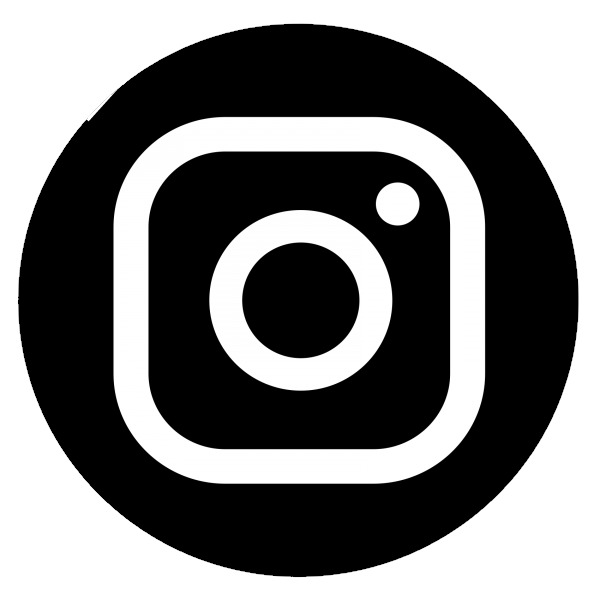
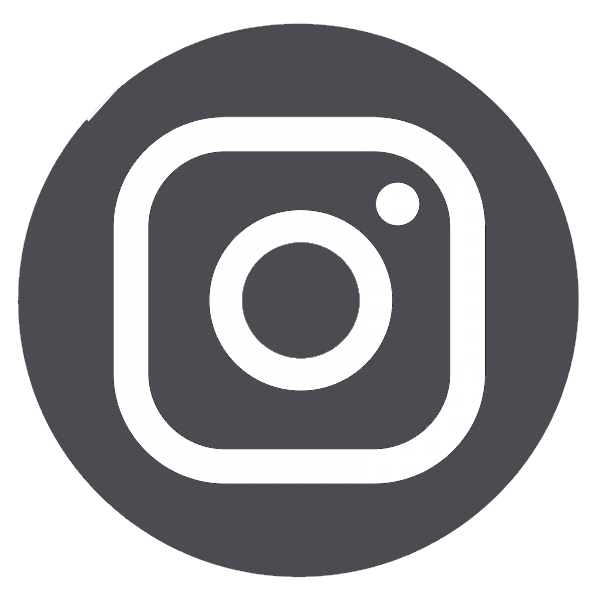
added darkmode and topbar

diff --git a/index-dark.html b/index-dark.html
@@ -2,15 +2,15 @@
 <html>
   <head>
     <title>Priscila Basile</title>
-    <link rel="stylesheet" href="index.css">
+    <link rel="stylesheet" href="index-dark.css">
     <link rel="preconnect" href="https://fonts.googleapis.com">
     <link rel="preconnect" href="https://fonts.gstatic.com" crossorigin>
     <link href="https://fonts.googleapis.com/css2?family=Fredoka+One&display=swap" rel="stylesheet">
   </head>
   <body>
     <div class="top-bar">
-      <div class="darkmode">
-        <a href="index-dark.html"><img class="darkmode-icon" src="darkmode-icon.png" alt="darkmode icon"></a>
+      <div class="lightmode">
+        <a href="index.html"><img class="lightmode-icon" src="lightmode-icon.png" alt="lightmode icon"></a>
       </div>
     </div> 
     <div class="header">Hey, I'm Priscila</div>

diff --git a/index-dark.css b/index-dark.css
@@ -35,14 +35,12 @@ body {
 }
  
 .top-bar {
-  outline: 2px dashed #4b4b52;
   margin-top: 10px;
   margin-right: 10px;
   margin-left: 10px;
   border-radius: 50px;
   width: 98.7%;
   height: 60px;
-  opacity: 0.95;
   background-color: white;
   position: fixed;
   top: 0;
@@ -67,7 +65,7 @@ body {
 
 .container{
  margin-top:300px;
- background-color:white;
+ background-color: #141921;
 }
 
 .text-margin {
@@ -83,11 +81,11 @@ body {
 }
 
 .sub-container{
- background-color:white;
+ background-color: #141921;
  padding-bottom: 300px;
 }
 
-.darkmode-icon {
+.lightmode-icon {
  position: relative;
  margin-left: 95%;
  margin-top: 12px;
